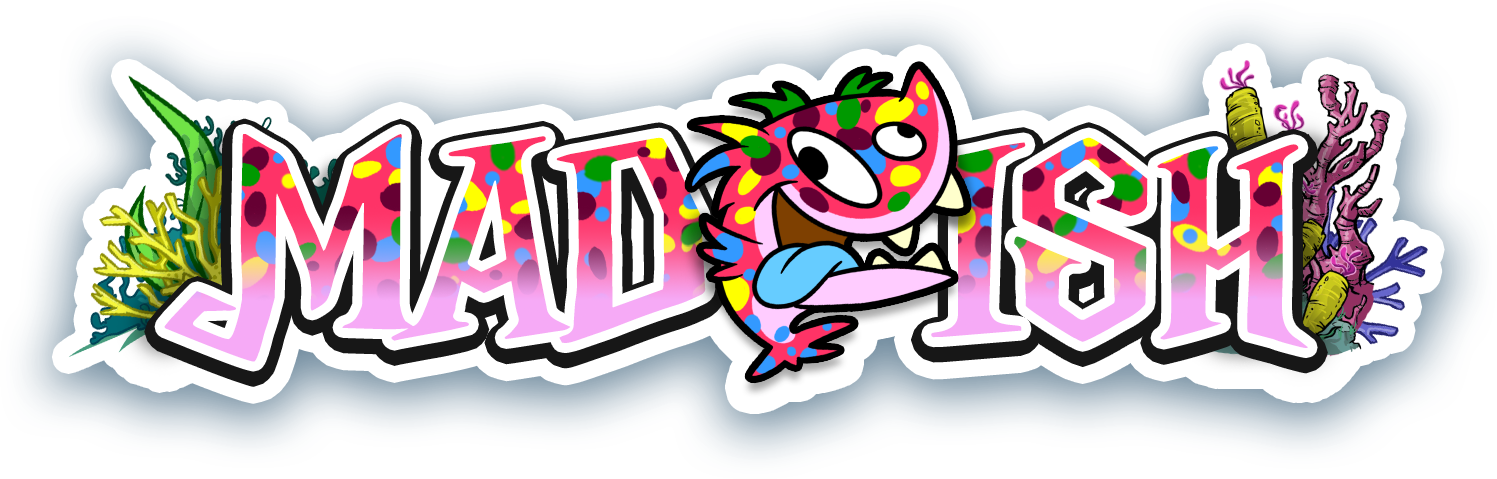
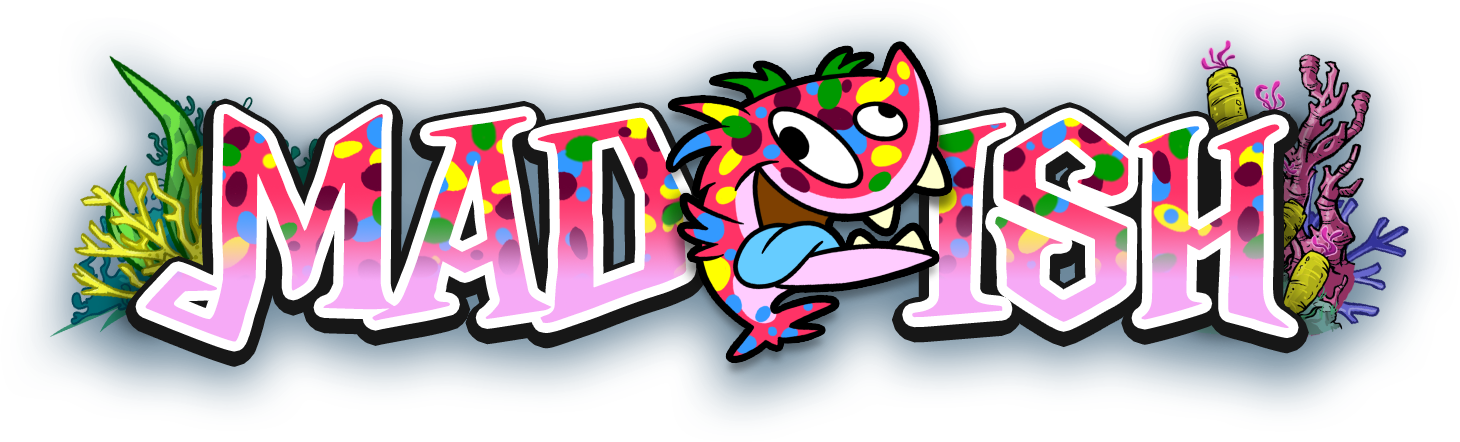
v

diff --git a/commissions/stephanie-gallery/style.css b/commissions/stephanie-gallery/style.css
@@ -190,7 +190,7 @@ nav a:nth-of-type(3):hover {
     display: block;
     height: auto;
     max-width: 1500px;
-    content: url(https://decygn.github.io/gc-cyde/commissions/stephanie-gallery/img/title2.png);
+    content: url(https://decygn.github.io/gc-cyde/commissions/stephanie-gallery/img/title.png);
     animation: float ease-in-out 3s infinite;
 }
 
